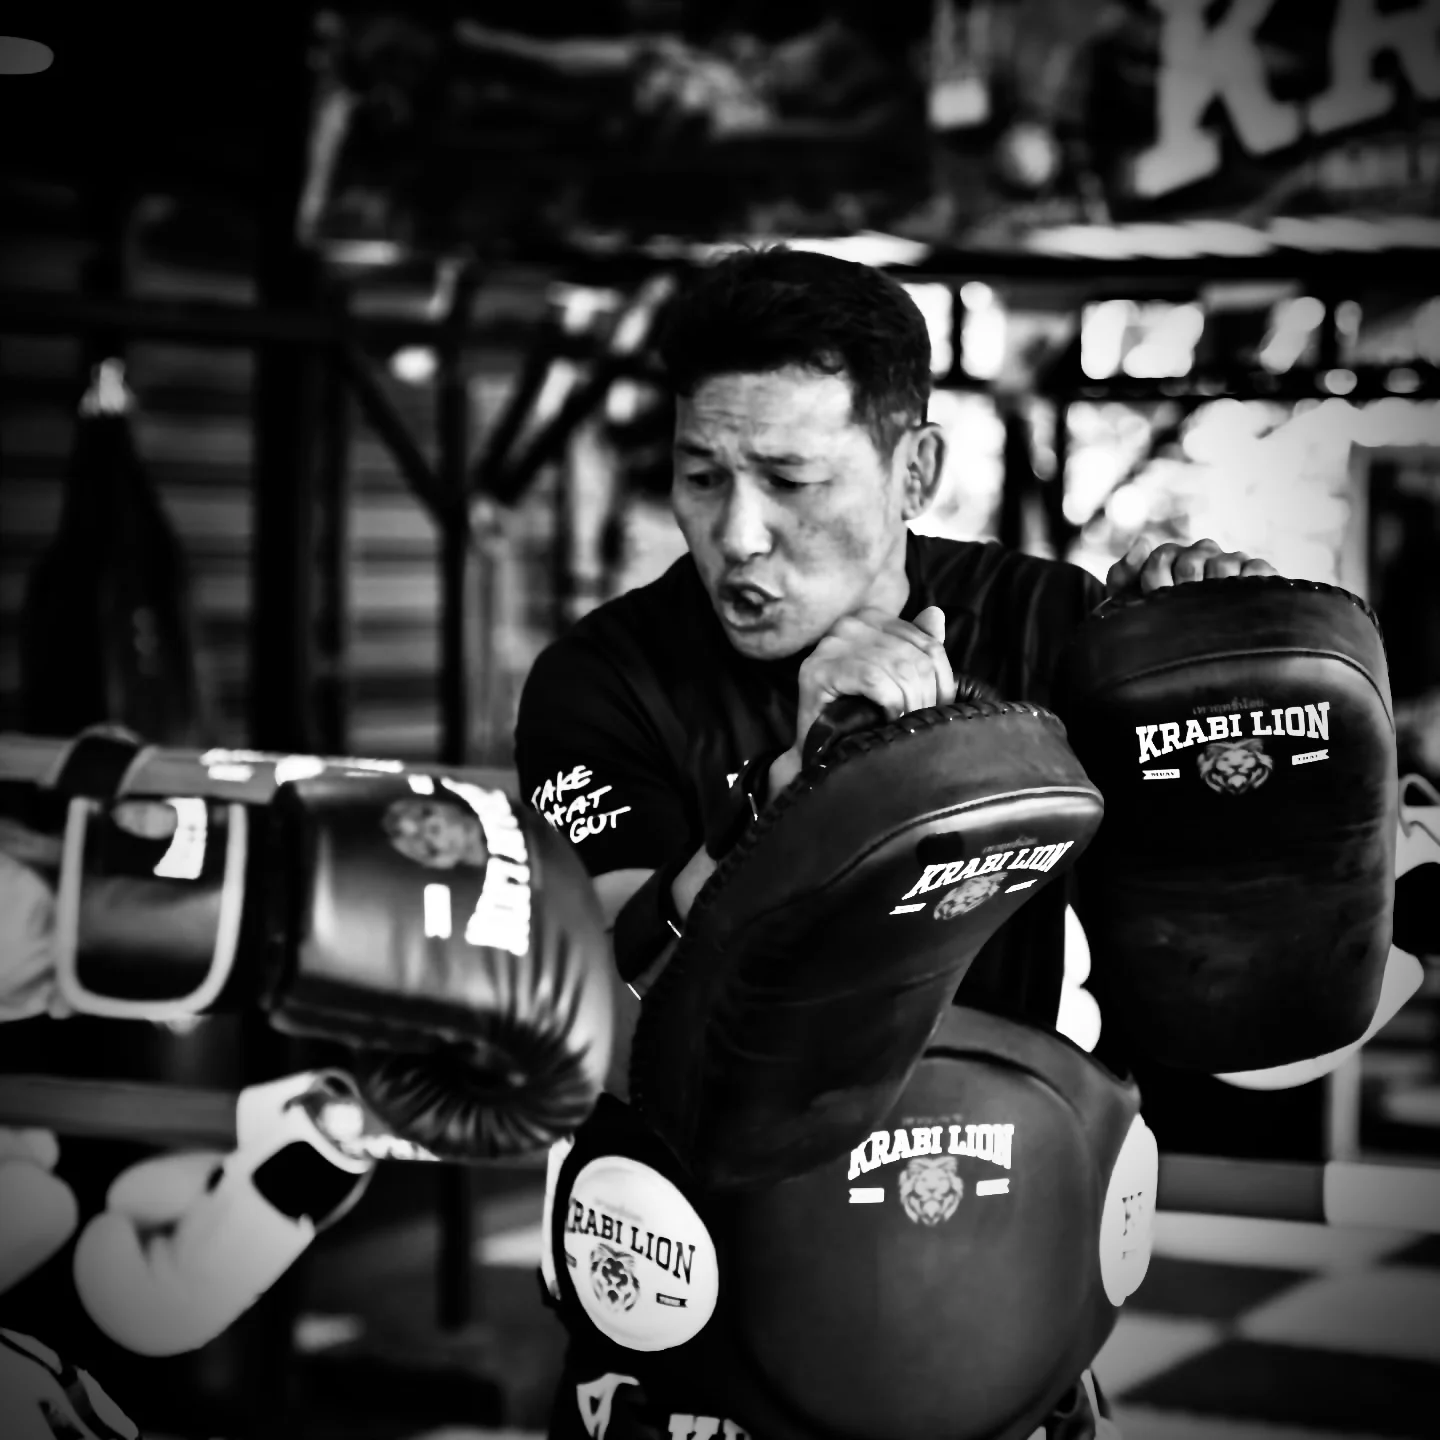
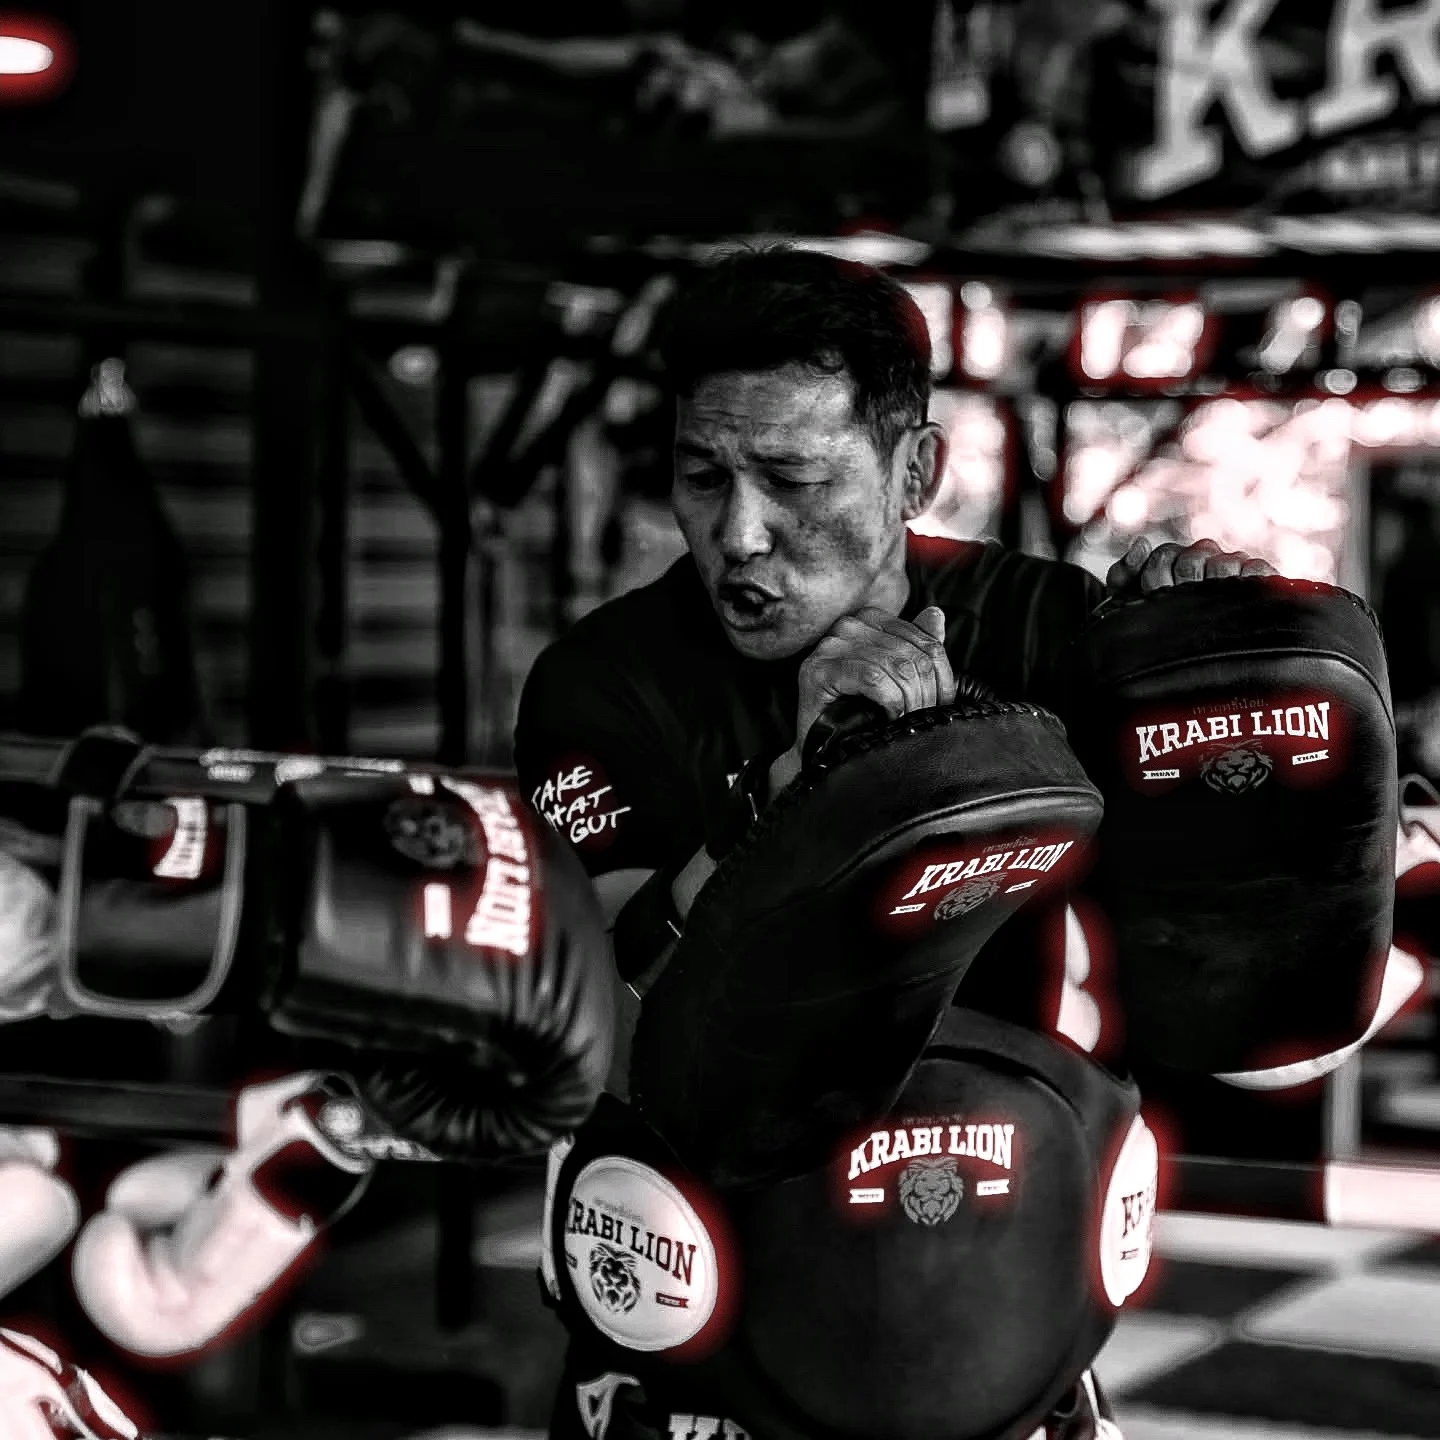
feat: hero swaps to the red-glow graded champ edit (border cropped)
Grade is baked into the source, so the CSS grayscale filter comes off.

diff --git a/index.html b/index.html
@@ -398,7 +398,7 @@ a { color: inherit; }
   isolation: isolate;
 }
 .hero-media { position: absolute; inset: 0; z-index: -2; }
-.hero-media img { width: 100%; height: 100%; object-fit: cover; object-position: 62% 26%; filter: grayscale(1) contrast(1.03); }
+.hero-media img { width: 100%; height: 100%; object-fit: cover; object-position: 62% 26%; }
 /* gradient divider strip — the brand's signature bar, in reds */
 .strip {
   height: 7px;
